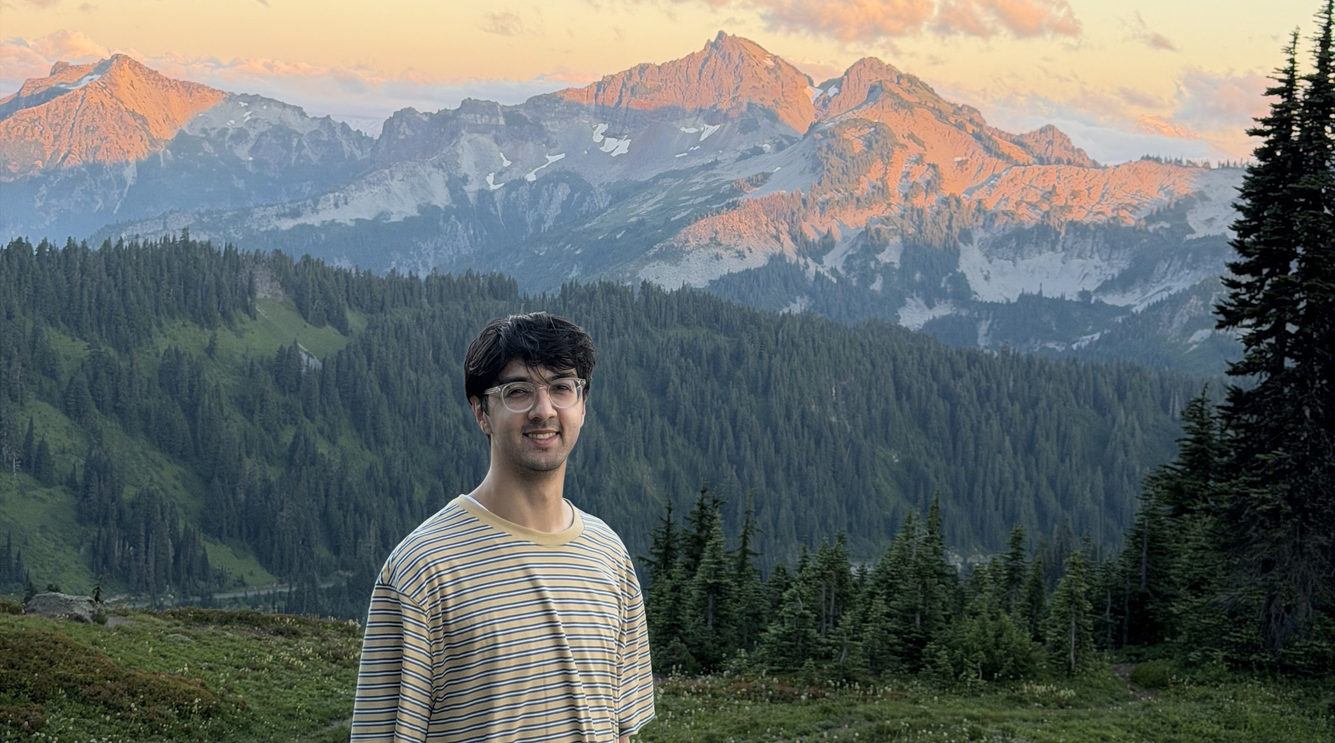
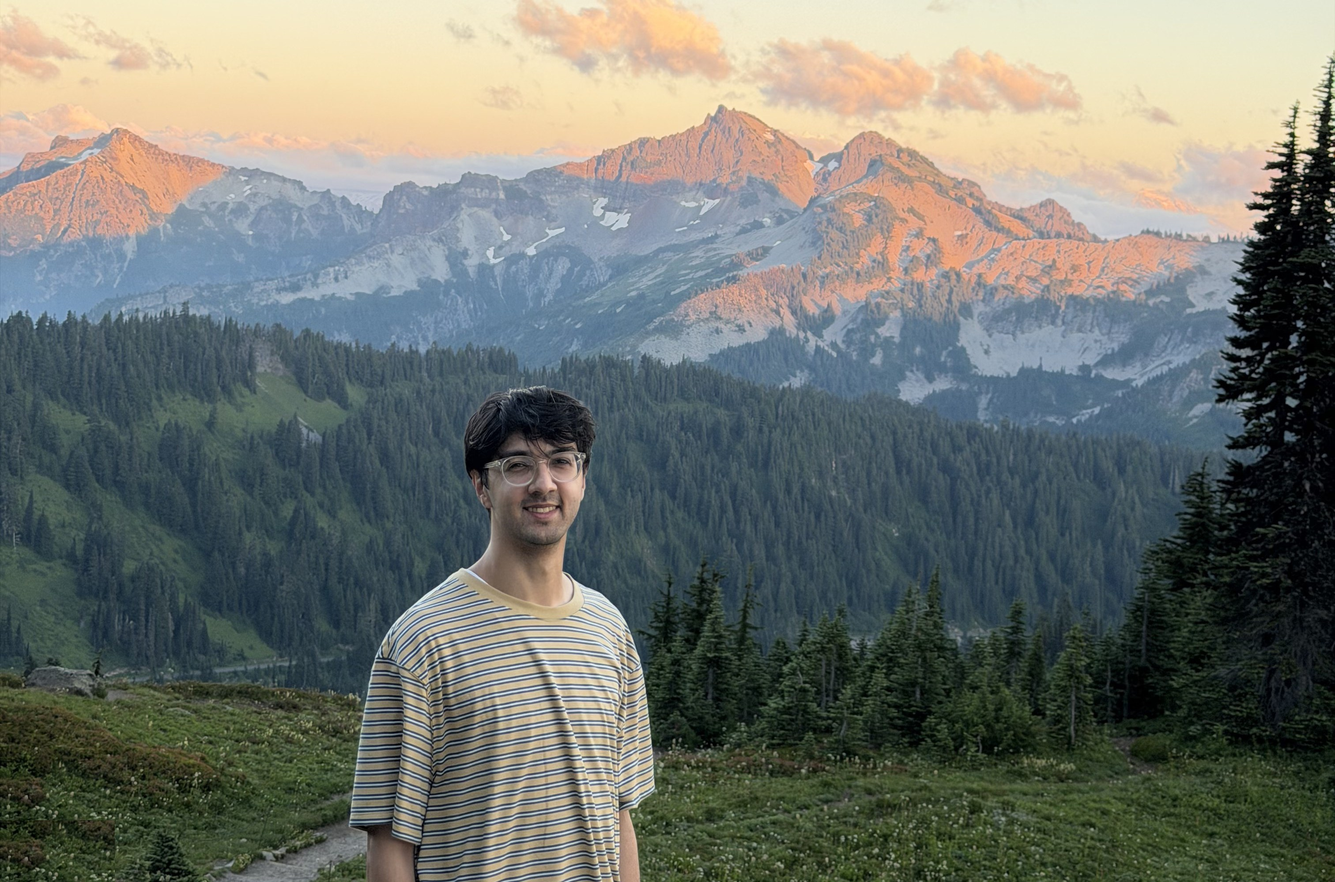
Combo: slide desktop hero picture up (taller band, bottom-aligned) with corner hiker painted out

diff --git a/src/pages/home/opening/styles/homepage.module.scss b/src/pages/home/opening/styles/homepage.module.scss
@@ -5,7 +5,9 @@
   background-image: linear-gradient(90deg, rgba(16, 32, 52, 0) 52%, rgba(16, 32, 52, 0.30) 100%), url("../images/hero-desktop.jpg");
   background-position: center;
   background-position-x: center;
-  background-position-y: center;
+  /* Slide the picture up: the hero uses a taller band, bottom-aligned, so the
+     subject sits higher at the same scale (Saaqeb's pick, Oct 29, 2026) */
+  background-position-y: bottom;
   // background-attachment: scroll;
   // background-size: cover;
   // -webkit-background-size: cover;
